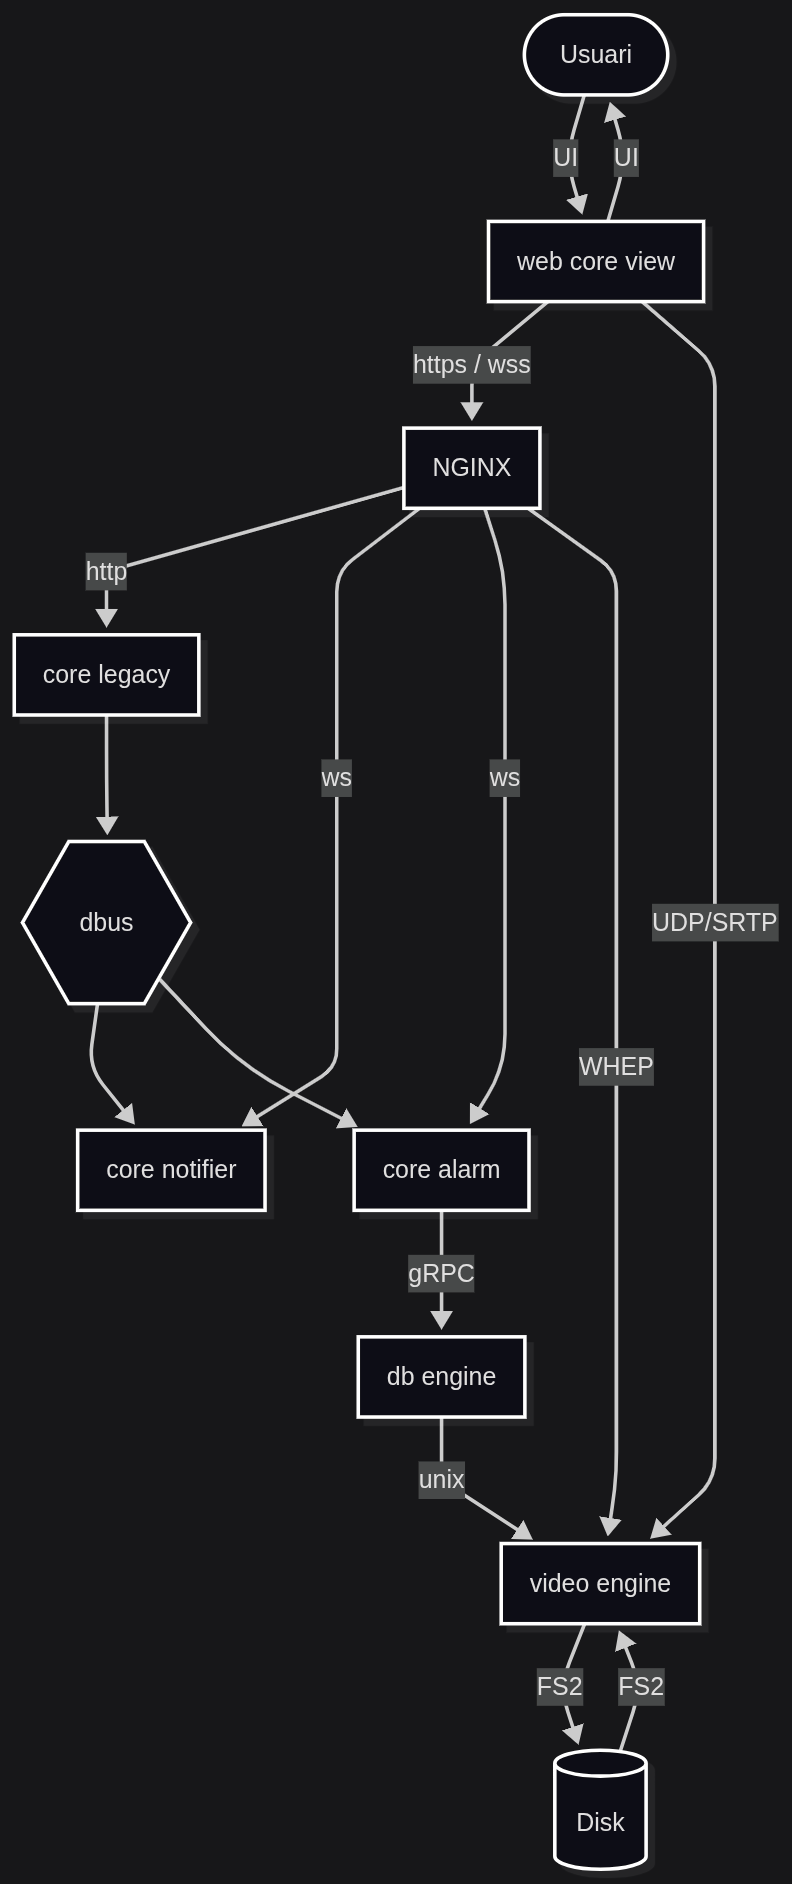
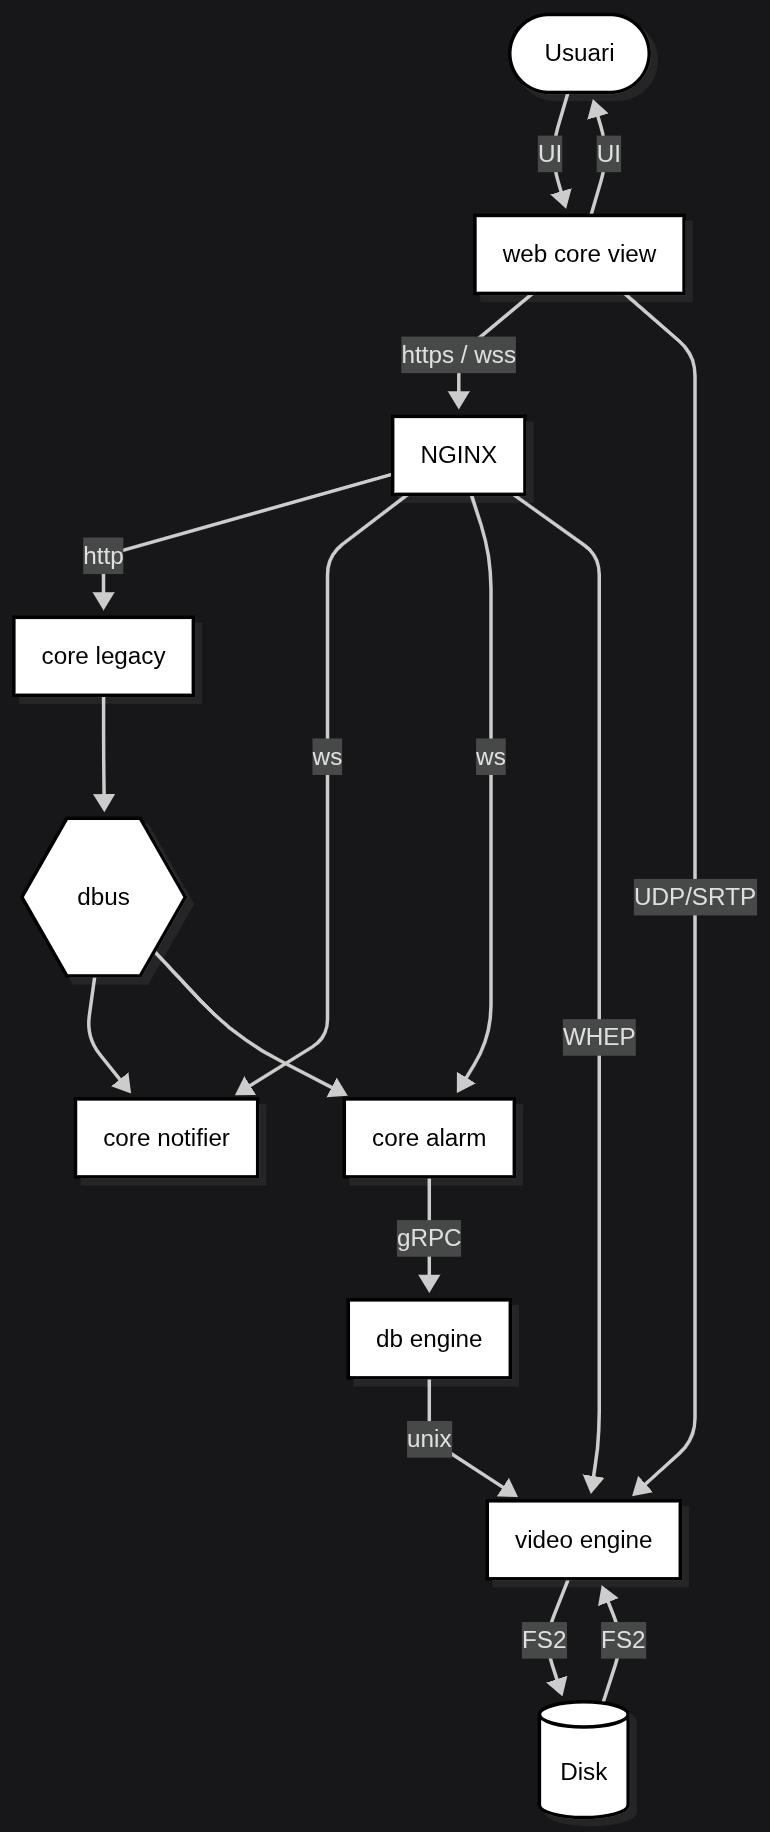
[feat] capitol 4 fins 4.2

diff --git a/capitols/4_arquitectura.tex b/capitols/4_arquitectura.tex
@@ -8,20 +8,21 @@ L'arquitectura de \textit{Web Core View} s'ha dissenyat sota els principis de mo
 L'ecosistema del videogravador (NVR) de Lanaccess es basa en un model de microserveis interns coordinats dins del sistema operatiu del gravador. La plataforma interactua amb els següents serveis crítics executant-se en l'entorn \textit{embedded}:
 
 \begin{itemize}
-    \item \textbf{la-core-legacy:} El cervell central, gestor de la configuració (API REST), autenticació i bloquejos (locks).
-    \item \textbf{la-video-engine:} El motor que processa el vídeo, el guarda als discos i el serveix via HLS o WebRTC. També gestiona les escriptures i lectures a disc de qualsevol informació.
-    \item \textbf{la-db-engine:} Funciona com un \textit{Virtual File System} (VFS) i un \textit{driver} de passarel·la que dirigeix la base de dades lògica. S'encarrega d'ordenar la persistència dels històrics d'alarmes de video, delegant l'escriptura física al disc exclusivament a \textbf{la-video-engine}.
-    \item \textbf{la-core-notifier} i \textbf{la-core-alarm:} Les passarel·les de WebSockets que disparen les notificacions en temps real cap al frontend.
+    \item \textbf{la-core-legacy:} El nucli central del sistema. Gestiona la configuració del gravador (API REST), l'autenticació i autorització d'usuaris, els bloquejos de recursos (\textit{locks}) i la coordinació del cicle de vida de la resta de serveis.
+    \item \textbf{la-video-engine:} El motor de vídeo. Processa els fluxos de les càmeres IP, els grava als discos i els redistribueix cap a \textbf{MediaMTX} per a la seva servei en temps real. És l'únic servei del sistema amb privilegis d'escriptura a disc, centralitzant i controlant totes les operacions d'E/S.
+    \item \textbf{la-db-engine:} Passarel·la de persistència lògica. Implementa un \textit{Virtual File System} (VFS) personalitzat de SQLite que, en lloc d'operar sobre fitxers físics, redirigeix totes les lectures i escriptures a través de \textit{sockets} Unix cap a \textbf{la-video-engine}. Exposa una interfície \textbf{gRPC} als seus clients i no té permisos directes sobre el disc.
+    \item \textbf{la-core-notifier:} Passarel·la de WebSockets per a notificacions generals del sistema. Es subscriu al bus \textbf{D-Bus} per detectar esdeveniments de maquinari —com pèrdues de senyal de vídeo o canvis d'estat de càmera— i els retransmet immediatament al \textit{frontend} via WSS.
+    \item \textbf{la-core-alarm:} Passarel·la de WebSockets especialitzada en alarmes. Es comunica amb \textbf{la-db-engine} via \textbf{gRPC} per persistir els registres d'events, i escolta el \textbf{D-Bus} per detectar activacions de sensors i relés, transmetent-les en temps real al client.
+    \item \textbf{MediaMTX:} Servidor de mitjana de codi obert que actua com a motor de \textit{streaming} de vídeo en temps real. Rep els fluxos de les càmeres des de \textbf{la-video-engine} i els redistribueix als clients via dos protocols diferenciats: \textbf{WebRTC} (transport SRTP/UDP negociat per ICE), i \textbf{HLS} (\textit{HTTP Live Streaming}).
 \end{itemize}
 
-Aquests serveis es relacionen entre ells mitjançant diferents protocols i busos de comunicació per garantir un rendiment òptim. Tal com s'il·lustra en el diagrama de la Figura \ref{fig:arquitectura_serveis}, el \textit{frontend} (\textit{web core view}) interactua amb el backend principalment per dues vies: peticions HTTPS cap a \textbf{la-core-legacy} per a l'enviament i consulta d'estats de configuració, i connexions persistents de WebSockets segurs (\textit{wss}) cap a \textbf{la-core-notifier} i \textbf{la-core-alarm} per rebre notificacions en temps real.
+Aquests serveis es relacionen entre ells mitjançant diferents protocols i busos de comunicació per garantir un rendiment òptim. Tal com s'il·lustra en el diagrama de la Figura \ref{fig:arquitectura_serveis}, el \textit{frontend} (\textit{web core view}) interactua amb el backend principalment per dues vies: peticions HTTPS cap a \textbf{la-core-legacy}, i connexions de WebSockets segurs (\textit{wss}) cap a \textbf{la-core-notifier} i \textbf{la-core-alarm} per rebre notificacions en temps real.
 
-% TODO: revisar això "peticions HTTPS cap a \textbf{la-core-legacy} per a l'enviament i consulta d'estats de configuració"
+Internament, els microserveis intercanvien informació majoritàriament a través del \textbf{D-Bus} de Linux. Per exemple, quan hi ha un canvi d'estat a nivell de maquinari (com una alarma), es publica al \textit{D-Bus}. Els serveis \textbf{la-core-notifier} i \textbf{la-core-alarm} estan subscrits a aquest bus i, en rebre el senyal, transmeten l'esdeveniment via WebSockets al \textit{frontend}. D'altra banda, \textbf{la-core-alarm} utilitza crides \textbf{gRPC} per comunicar-se de manera ràpida i eficient amb \textbf{la-db-engine}.
 
-Internament, els microserveis intercanvien informació majoritàriament a través del \textbf{D-Bus} de Linux. Per exemple, quan hi ha un canvi d'estat a nivell de maquinari (com una alarma), es publica al \textit{D-Bus}. Els serveis \textbf{la-core-notifier} i \textbf{la-core-alarm} estan subscrits a aquest bus i, en rebre el senyal, transmeten l'esdeveniment via WebSockets al \textit{frontend}. D'altra banda, \textbf{la-core-alarm} utilitza crides des \textbf{gRPC} per comunicar-se de manera ràpida i eficient amb \textbf{la-db-engine}, el qual actua com un \textit{driver} o VFS per a la base de dades \textbf{SQLite3}. Com a orquestrador, \textbf{la-db-engine} no guarda la informació directament al disc, sinó que es comunica via \textit{sockets} de Unix amb \textbf{la-video-engine} —l'únic servei amb permisos i funcions per escriure a disc— perquè persisteixi físicament la informació de forma segura.
+\textbf{la-db-engine} intercepta la lectura i escriptura d'alarmes a disc implementant un \textit{Virtual File System} (VFS) personalitzat de SQLite: en lloc de realitzar les operacions d'E/S sobre fitxers físics, redirigeix totes les escriptures i lectures de SQLite a través de \textit{sockets} Unix cap a \textbf{la-video-engine}. D'aquesta manera, \textbf{la-db-engine} presenta una base de dades lògica als seus clients (via gRPC), però no té permisos ni responsabilitat sobre el disc. \textbf{la-video-engine} és l'únic servei amb privilegis per escriure a disc, cosa que centralitza i controla totes les operacions d'E/S del sistema.
 
-% TODO: dir que els serveis son de system-d
-% TODO: revisar si esta ben explicat lo de driver/VFS del la-db-engine
+Cal destacar que tots aquests microserveis —\textbf{la-core-legacy}, \textbf{la-video-engine}, \textbf{la-db-engine}, \textbf{la-core-notifier} i \textbf{la-core-alarm}— estan definits i gestionats com a \textbf{unitats de \textit{systemd}} al sistema operatiu del gravador. Cadascun d'ells disposa del seu propi fitxer \texttt{.service}, que defineix les dependències d'arrencada, les polítiques de reinici automàtic i els límits de recursos. Això significa que l'operador pot gestionar el cicle de vida de qualsevol servei de forma independent amb \texttt{systemctl} (per exemple, \texttt{systemctl restart la-db-engine}), i que \textit{systemd} s'encarrega de garantir que els serveis s'arrenquen en l'ordre correcte i es recuperen automàticament en cas de fallada.
 
 \begin{figure}[htbp]
   \centering
@@ -31,24 +32,22 @@ Internament, els microserveis intercanvien informació majoritàriament a travé
   \small Font: Elaboració pròpia.
 \end{figure}
 
+\clearpage
 \subsection{Capa de comunicació i Proxy}
-Pel que fa a la xarxa externa, la interacció entre la interfície i el maquinari es consolida a través d'un \textit{Gateway} o Proxy Invers:
+
+Per comunicar la web amb els serveis de manera segura, s'interposa \textbf{NGINX} com a \textit{proxy} invers i porta d'entrada única (\textit{gateway}) al sistema. NGINX escolta als ports \texttt{60080} (HTTP) i \texttt{60443} (HTTPS/SSL), i assumeix quatre responsabilitats principals: gestiona el xifratge TLS (protocols TLSv1.2 i TLSv1.3, xifrat \texttt{EECDH+AESGCM}), aplica capçaleres de seguretat HTTP (\texttt{Strict-Transport-Security}, \texttt{X-Frame-Options: SAMEORIGIN}, \texttt{X-Content-Type-Options: nosniff}), controla l'autenticació de les rutes protegides mitjançant el mecanisme intern \texttt{auth\_request}, i enruta cada petició cap al microservei intern corresponent en funció de la ruta URL. Des del punt de vista del navegador, tots els serveis queden amagats darrere una única adreça.
+
+La configuració NGINX agrupa les rutes en quatre blocs funcionals:
 
 \begin{itemize}
-    \item \textbf{Proxy Invers (NGINX):} Actua com a porta d'enllaç única. La seva funció és gestionar el xifratge TLS, resoldre les polítiques de \textit{Cross-Origin Resource Sharing} (CORS) i redirigir les peticions cap als serveis interns corresponents.
-    \item \textbf{API REST (HTTP):} S'utilitza per a operacions \textit{stateless} i síncrones via mòdul \textbf{la-core-legacy}. Gestiona la consulta i l'enviament de paràmetres de configuració.
-    \item \textbf{Canal de Temps Real (WebSockets):} Mitjançant el protocol WSS, els mòduls \textbf{la-core-notifier} i \textbf{la-core-alarm} envien esdeveniments asíncronament. Això permet que la interfície reaccioni instantàniament a una pèrdua de vídeo o a una activació de sensor sense necessitat de fer \textit{polling} constant.
+    \item \textbf{Configuració i control (HTTPS):} La gran majoria de les rutes —\texttt{/api.rest/}, \texttt{/webprotocol/}, \texttt{/onvif/}, \texttt{/device-service/} i els nombrosos \textit{endpoints} \texttt{.cgi}— es deriven cap a \textbf{la-core-legacy} (port intern \texttt{60088}). Aquest servei centralitza la gestió de la configuració, l'autenticació i el control del sistema.
+
+    \item \textbf{Canals de temps real (WSS):} Les connexions WebSocket persistents segueixen dues rutes diferenciades: \texttt{/ws/la-core-notifier/} es deriven cap al port \texttt{60070} (\textbf{la-core-notifier}), i \texttt{/ws/la-core-alarm/} cap al port \texttt{60071} (\textbf{la-core-alarm}). Ambdós serveis envien esdeveniments en temps real al \textit{frontend} —pèrdues de vídeo, activació de relés, alarmes de sensor— sense que el client hagi de fer \textit{polling}.
+
+    \item \textbf{Vídeo en temps real:} S'ofereixen dos mecanismes de \textit{streaming} gestionats per \textbf{MediaMTX}: el camí \texttt{/stream/} (port \texttt{60889}) serveix vídeo via WebRTC, amb senyalització sobre WebSocket i transport de mitjana SRTP/UDP negociat per ICE; el camí \texttt{/hls/} (port \texttt{60888}) serveix el mateix vídeo en format HLS per a clients que no suporten o tenen dificultats amb WebRTC. 
+
+    \item \textbf{Serveis auxiliars:} El camí \texttt{/video-engine/} enruta directament cap a \textbf{la-video-engine} (port \texttt{60890}) per a operacions de control i consulta del motor de vídeo. El camí \texttt{/db-engine/} connecta amb \textbf{la-db-engine} (port \texttt{60891}) per a consultes de dades històriques. El camí \texttt{/terminal/} connecta amb el servei \textbf{ttyd} (port \texttt{7681}), que ofereix una terminal interactiva accessible directament des del navegador.
 \end{itemize}
-
-Internament, els serveis del backend embedded es comuniquen mitjançant \textbf{gRPC} \cite{grpc_up_running} per a una transferència de dades binària d'alt rendiment i utilitzen un bus de missatgeria \textbf{D-Bus} per a la coordinació d'estats a nivell de sistema operatiu. El repte de disseny rau en el fet que el navegador no pot comunicar-se directament amb els dimonis del backend (que utilitzen gRPC o D-Bus). S'ha implementat una capa de \textbf{Gateway} amb \textbf{NGINX} com a \textit{Proxy} invers, que redirigeix el trànsit segons la ruta:
-
-\begin{itemize}
-    \item Les peticions \texttt{/api/v1/config/*} es deriven a \textbf{la-core-legacy}.
-    \item Les peticions de senyalització WebRTC (protocol WHEP, camí \texttt{/video-engine/stream/\{id\}/whep}) es deriven a través de NGINX cap a \textbf{la-video-engine} (pla de control). Un cop establerta la sessió, el flux de vídeo SRTP/UDP circula directament entre el navegador i el port de \textbf{la-video-engine} negociat per ICE (ports 10000–20000), sense intermediació de NGINX (pla de dades).
-    \item Les consultes de dades històriques es canalitzen cap a \textbf{la-db-engine}.
-\end{itemize}
-
-Aquest desacoblament permet que, si en un futur es canvia el motor de base de dades o el motor de vídeo, el \textit{frontend} només hagi de canviar el \textit{contracte} de dades, no la seva arquitectura base.
 
 Per tal de sintetitzar la interacció entre els components, a la Taula \ref{tab:matriu_comunicacio} es detallen els protocols i la naturalesa del trànsit entre el navegador i el gravador:
 
@@ -57,88 +56,123 @@ Per tal de sintetitzar la interacció entre els components, a la Taula \ref{tab:
   \caption{Matriu de comunicació de la plataforma.}
   \label{tab:matriu_comunicacio}
   \resizebox{\textwidth}{!}{
-  \begin{tabular}{@{}llll@{}}
+  \begin{tabular}{@{}lllll@{}}
     \toprule
-    \textbf{Origen} & \textbf{Destinació} & \textbf{Protocol} & \textbf{Finalitat} \\ \midrule
-    Frontend (Navegador) & NGINX & HTTPS & Peticions REST i descàrrega de l'App \\
-    Frontend (Navegador) & NGINX & WSS & Notificacions d'alarmes en temps real \\
-    Frontend (Navegador) & NGINX & HTTPS (WHEP) & Senyalització SDP per a WebRTC (pla de control) \\
-    Frontend (Navegador) & \textbf{la-video-engine} & SRTP/UDP (directe) & Flux de vídeo WebRTC (pla de dades) \\
-    NGINX (Proxy) & \textbf{la-core-legacy} & HTTP (Intern) & Gestió de configuració i usuaris \\
-    NGINX (Proxy) & \textbf{la-db-engine} & HTTP (Intern) & Consultes a la base de dades SQLite \\
-    \textbf{la-video-engine} / \textbf{la-core-alarm} & \textbf{la-db-engine} & D-Bus / Unix Sockets & Comunicació interna del backend (alarmes i persistència al disc) \\ \bottomrule
+    \textbf{Origen} & \textbf{Destinació (Servei)} & \textbf{Ruta NGINX} & \textbf{Protocol} & \textbf{Finalitat} \\ \midrule
+    Navegador & NGINX $\rightarrow$ \textbf{la-core-legacy} & \texttt{/login/}, \texttt{/(en|es|fr)/} & HTTPS & Descàrrega de l'aplicació Angular (SPA) \\
+    Navegador & NGINX $\rightarrow$ \textbf{la-core-legacy} & \texttt{/api.rest/}, \texttt{/webprotocol/}, \texttt{*.cgi} & HTTPS & Configuració, autenticació i control del sistema \\
+    Navegador & NGINX $\rightarrow$ \textbf{la-core-notifier} & \texttt{/ws/la-core-notifier/} & WSS & Notificacions de sistema en temps real \\
+    Navegador & NGINX $\rightarrow$ \textbf{la-core-alarm} & \texttt{/ws/la-core-alarm/} & WSS & Notificacions d'alarmes en temps real \\
+    Navegador & NGINX $\rightarrow$ \textbf{MediaMTX} & \texttt{/stream/} & WSS + SRTP/UDP & Vídeo en directe via WebRTC \\
+    Navegador & NGINX $\rightarrow$ \textbf{MediaMTX} & \texttt{/hls/} & HTTPS & Vídeo en directe via HLS \\
+    Navegador & NGINX $\rightarrow$ \textbf{la-video-engine} & \texttt{/video-engine/} & HTTPS & Control i consulta del motor de vídeo \\
+    Navegador & NGINX $\rightarrow$ \textbf{la-db-engine} & \texttt{/db-engine/} & HTTPS & Consultes de dades històriques \\
+    Navegador & NGINX $\rightarrow$ \textbf{ttyd} & \texttt{/terminal/} & WSS & Terminal interactiva via navegador \\
+    % \textbf{la-core-notifier} / \textbf{la-core-alarm} & \textbf{la-db-engine} & — & gRPC / D-Bus & Comunicació interna del backend \\
+    % \textbf{la-video-engine} & \textbf{la-db-engine} & — & Unix Sockets & Persistència al disc (VFS SQLite) \\ \bottomrule
   \end{tabular}
   }
 \end{table}
 
-Per resoldre aquest desacoblament a l'hora d'enviar esdeveniments, s'ha dissenyat un mecanisme de \textbf{bridging de protocols (Protocol Bridging)} centralitzat en el servei de notificacions (\textit{Core Notifier}) del gravador. Aquest servei actua com a intermediari actiu (\textit{gateway}): es subscriu als esdeveniments de sistema (com pèrdues de vídeo o activació de relés) mitjançant el bus D-Bus i canals gRPC, tradueix aquestes estructures de baix nivell en missatges JSON lleugers i, finalment, els transmet en temps real pel canal de \textbf{WebSockets} (WSS) \cite{rfc6455} fins al client Angular. Aquest disseny garanteix que el frontend pugui respondre immediatament a qualsevol esdeveniment de seguretat, sense connexions binàries natives costoses ni sobrecàrrega de la CPU del client.
+\clearpage
+El Llistat \ref{lst:nginx_routing} mostra els blocs de configuració NGINX que implementen les rutes principals de la plataforma, extrets directament del fitxer \texttt{la-core.conf} del repositori de build \textbf{mantos-rec} (\texttt{sources/meta-mantos/recipes-httpd/nginx/nginx/la-core.conf}):
 
-\subsection{Seguretat Defensiva contra vectors d'atac OWASP}
-Com a requisit no funcional de seguretat crítica, el frontend s'ha dissenyat per mitigar de forma activa les principals vulnerabilitats del catàleg OWASP Top 10. La gestió de la sessió s'ha dissenyat per eliminar tots els vectors de robatori de credencials: les \textit{cookies} de sessió es gestionen amb els atributs \texttt{HttpOnly} i \texttt{Secure} configurats exclusivament a la capa de NGINX, de manera que resten completament inaccessibles des de qualsevol codi JavaScript del client i, per tant, immunitzades contra atacs de tipus \textit{Cross-Site Scripting} (XSS). La prevenció de \textit{Cross-Site Request Forgery} (CSRF) s'aconsegueix gràcies a la política \textit{Same-Origin} imposada per NGINX i a la naturalesa \textit{zero-persistence} del Signal privat d'estat en memòria del \textit{frontend}: un recarregament de pàgina invalida la sessió al costat del client sense necessitat de cap \textit{token} CSRF addicional.
+\begin{lstlisting}[language=bash, label={lst:nginx_routing}, caption={Fragment de la configuració NGINX (la-core.conf, repositori mantos-rec): rutes principals de la plataforma.}]
+# Aplicacio Angular (SPA) - requereix autenticacio
+location ~ ^/(en|es|fr)/ {
+    auth_request /auth.cgi;
+    error_page 401 = @error401;
+    alias /data/web-core-view/var/www/browser/;
+    try_files $uri $uri/ /login/index.html;
+}
 
-Addicionalment, a la capa de NGINX, s'ha unificat l'origen de l'aplicació i l'API REST sota un mateix servidor de recursos, cosa que permet aplicar polítiques de Same-Origin estrictes i capçaleres de seguretat Content Security Policy (CSP) per immunitzar el sistema contra injeccions Cross-Site Scripting (XSS) i intents de Clickjacking.
+# WebSocket - Notificacions generals del sistema
+location /ws/la-core-notifier/ {
+    proxy_pass http://localhost:60070/;
+    proxy_http_version 1.1;
+    proxy_set_header Upgrade $http_upgrade;
+    proxy_set_header Connection "upgrade";
+    proxy_send_timeout 600s;
+    proxy_read_timeout 600s;
+}
 
-L'ús de NGINX com a \textit{entry point} és indispensable per a la seguretat del sistema. En centralitzar les peticions, NGINX actua de tallafoc per als serveis \textbf{la-video-engine} i \textbf{la-core-legacy}, impedint l'accés directe als ports interns. A més, permet que el token JWT generat per l'autenticació sigui vàlid per a tots els microserveis sota un mateix domini de seguretat, simplificant la gestió de capçaleres \textit{Authorization} i evitant problemes de CORS (Cross-Origin Resource Sharing) que podrien bloquejar l'streaming de vídeo.
+# WebSocket - Canal d'alarmes
+location /ws/la-core-alarm/ {
+    proxy_pass http://localhost:60071/;
+    proxy_http_version 1.1;
+    proxy_set_header Upgrade $http_upgrade;
+    proxy_set_header Connection "upgrade";
+    proxy_send_timeout 600s;
+    proxy_read_timeout 600s;
+}
 
-\begin{lstlisting}[language=bash, caption={Configuració de seguretat NGINX per a l'entorn embedded de Web Core View.}]
-# Configuració de seguretat NGINX per a l'entorn embedded de Web Core View
-server {
-    listen 443 ssl http2;
-    server_name localhost;
+# Motor de video - control i consulta (protegit per auth)
+location /video-engine/ {
+    auth_request /auth.cgi;
+    error_page 401 = @error401;
+    proxy_http_version 1.1;
+    proxy_pass http://localhost:60890/;
+}
 
-    # Certificats SSL i xifratge TLS fort
-    ssl_certificate /etc/nginx/ssl/server.crt;
-    ssl_certificate_key /etc/nginx/ssl/server.key;
-    ssl_protocols TLSv1.2 TLSv1.3;
+# Base de dades - dades historiques (protegit per auth)
+location /db-engine/ {
+    auth_request /auth.cgi;
+    error_page 401 = @error401;
+    proxy_http_version 1.1;
+    proxy_pass http://localhost:60891/;
+}
 
-    # Capçaleres de seguretat defensiva (OWASP Mitigation)
-    add_header Content-Security-Policy "default-src 'self'; script-src 'self'; style-src 'self' 'unsafe-inline'; img-src 'self' data:; connect-src 'self' wss:;" always;
-    add_header X-Frame-Options "DENY" always;
-    add_header X-Content-Type-Options "nosniff" always;
-    add_header Referrer-Policy "strict-origin-when-cross-origin" always;
-
-    # Enrutament de l'aplicació SPA Angular (Frontend)
-    location / {
-        root /var/www/web-core-view;
-        try_files $uri $uri/ /index.html;
-    }
-
-    # Proxy Invers cap a la-core-legacy (configuració, auth i locks)
-    location /api/v1/config/ {
-        proxy_pass http://127.0.0.1:8081;
-        proxy_set_header Host $host;
-        proxy_set_header X-Real-IP $remote_addr;
-    }
-
-    # Proxy Invers cap a la-video-engine (senyalització WebRTC/WHEP i HLS)
-    location /video-engine/ {
-        proxy_pass http://127.0.0.1:8082;
-        proxy_set_header Host $host;
-    }
-
-    # Proxy Invers cap a la-db-engine (consultes historiques d'alarmes)
-    location /webprotocol/ {
-        proxy_pass http://127.0.0.1:8081;
-        proxy_set_header Host $host;
-    }
-
-    # Proxy Invers i Bridging per a WebSockets d'esdeveniments
-    location /ws/ {
-        proxy_pass http://127.0.0.1:8080;
-        proxy_http_version 1.1;
-        proxy_set_header Upgrade $http_upgrade;
-        proxy_set_header Connection "Upgrade";
-        proxy_set_header Host $host;
-    }
+# Streaming WebRTC via MediaMTX (protegit per auth)
+location /stream/ {
+    auth_request /auth.cgi;
+    error_page 401 = @error401;
+    proxy_pass http://localhost:60889/stream/;
+    proxy_http_version 1.1;
+    proxy_set_header Upgrade $http_upgrade;
+    proxy_set_header Connection "upgrade";
 }
 \end{lstlisting}
 
-\subsection{Estratègia de Fallback i robustesa del canal de vídeo}
-La integració de WebRTC com a mètode de visualització de vídeo de baixa latència ($<300$~ms) requereix un mecanisme d'alta disponibilitat que respongui davant de xarxes corporatives on el trànsit UDP pugui estar completament bloquejat pels tallafocs de seguretat. Per a aquest propòsit, s'ha dissenyat un sistema de \textit{fallback} transparent a HLS \cite{hls_apple}.
+% Per resoldre aquest desacoblament a l'hora d'enviar esdeveniments, s'ha dissenyat un mecanisme de \textbf{bridging de protocols (Protocol Bridging)} centralitzat en el servei de notificacions (\textit{Core Notifier}) del gravador. Aquest servei actua com a intermediari actiu (\textit{gateway}): es subscriu als esdeveniments de sistema (com pèrdues de vídeo o activació de relés) mitjançant el bus D-Bus i canals gRPC, tradueix aquestes estructures de baix nivell en missatges JSON lleugers i, finalment, els transmet en temps real pel canal de \textbf{WebSockets} (WSS) \cite{rfc6455} fins al client Angular. Aquest disseny garanteix que el frontend pugui respondre immediatament a qualsevol esdeveniment de seguretat, sense connexions binàries natives costoses ni sobrecàrrega de la CPU del client.
 
-La connexió WebRTC es divideix en dos plans de comunicació independents. El \textbf{pla de control} gestiona la senyalització SDP seguint el protocol WHEP (\textit{WebRTC-HTTP Egress Protocol}) \cite{webrtc_w3c}: el navegador realitza un HTTP POST a \texttt{/video-engine/stream/\{camera\_id\}/whep}, que NGINX reenvia internament cap a \textbf{la-video-engine}, el qual retorna la descripció de sessió SDP amb les candidatures ICE. El \textbf{pla de dades}, en canvi, és un flux SRTP xifrat sobre UDP que circula directament entre el navegador i el port de \textbf{la-video-engine} acordat per ICE (rang 10000–20000); aquest trànsit no passa mai per NGINX. Aquesta separació és allò que garanteix una latència de visualització inferior a 300~ms: el vídeo no ha de travessar cap capa de proxy invers.
+\clearpage
+\subsection{Seguretat Defensiva contra vectors d'atac OWASP}
+Com a requisit no funcional de seguretat crítica, el frontend s'ha dissenyat per mitigar de forma activa les principals vulnerabilitats del catàleg OWASP Top 10. La gestió de la sessió s'ha dissenyat per eliminar tots els vectors de robatori de credencials: les \textit{cookies} de sessió es gestionen amb els atributs \texttt{HttpOnly} i \texttt{Secure} configurats exclusivament a la capa de NGINX, de manera que resten completament inaccessibles des de qualsevol codi JavaScript del client i, per tant, immunitzades contra atacs de tipus \textit{Cross-Site Scripting} (XSS). La prevenció de \textit{Cross-Site Request Forgery} (CSRF) s'aconsegueix gràcies a la política \textit{Same-Origin} imposada per NGINX i a la naturalesa \textit{zero-persistence} del Signal privat d'estat en memòria del \textit{frontend}: un recarregament de pàgina invalida la sessió al costat del client sense necessitat de cap \textit{token} CSRF addicional.
 
-El client web inicia la negociació SDP mitjançant la referència del protocol WebRTC W3C \cite{webrtc_w3c}. Si el navegador detecta que l'estat de la connexió ICE (\textit{Interactive Connectivity Establishment}) transita cap a \texttt{failed} o \texttt{disconnected} després d'un \textit{timeout} de seguretat de 5 segons, s'activa automàticament la lògica de degradació de servei. En aquest instant, es tanquen de manera neta els descriptors de WebRTC i s'inicialitza la reproducció d'un flux de vídeo HLS a través del Proxy Invers NGINX (TCP, port 443 xifrat), assegurant que l'operador continuï visualitzant la càmera sense interrupció.
+Addicionalment, a la capa de NGINX, s'ha unificat l'origen de l'aplicació i l'API REST sota un mateix servidor de recursos, cosa que permet aplicar polítiques de \textit{Same-Origin} estrictes que limiten els vectors d'injeccions \textit{Cross-Site Scripting} (XSS) i els intents de \textit{Clickjacking}.
+
+L'ús de NGINX com a \textit{entry point} és indispensable per a la seguretat del sistema. En centralitzar les peticions, NGINX actua de tallafoc per als serveis \textbf{la-video-engine} i \textbf{la-core-legacy}, impedint l'accés directe als ports interns. A més, permet que el token JWT generat per l'autenticació sigui vàlid per a tots els microserveis sota un mateix domini de seguretat, simplificant la gestió de capçaleres \textit{Authorization} i evitant problemes de CORS (Cross-Origin Resource Sharing) que podrien bloquejar l'streaming de vídeo.
+
+\begin{lstlisting}[language=bash, label={lst:nginx_security}, caption={Fragment de la configuració NGINX (la-core.conf): TLS i capçaleres de seguretat HTTP.}]
+server {
+    listen 60080;
+    listen 60443 ssl;
+
+    # Certificats TLS del dispositiu
+    ssl_certificate     /etc/ssl/certs/la-certificate.crt;
+    ssl_certificate_key /etc/ssl/private/la-certificate.key;
+
+    # Protocols i xifrats forts (OWASP TLS Cheat Sheet)
+    ssl_protocols             TLSv1.2 TLSv1.3;
+    ssl_prefer_server_ciphers on;
+    ssl_dhparam               /etc/nginx/la-dhparam.pem;
+    ssl_ciphers               EECDH+AESGCM:EDH+AESGCM;
+    ssl_ecdh_curve            secp384r1;
+    ssl_session_timeout       10m;
+    ssl_session_cache         shared:SSL:10m;
+    ssl_session_tickets       off;
+    ssl_stapling              on;
+    ssl_stapling_verify       on;
+
+    # Capçaleres de seguretat HTTP
+    add_header Strict-Transport-Security
+               "max-age=31536000; includeSubDomains" always;
+    add_header X-Frame-Options        "SAMEORIGIN" always;
+    add_header X-Content-Type-Options "nosniff"    always;
+    add_header Referrer-Policy
+               "strict-origin-when-cross-origin"   always;
+}
+\end{lstlisting}
 
 \section{Disseny del Frontend (Angular 19)}
 L'elecció d'Angular 19 no és casual; el \textit{framework} proporciona una estructura que facilita el manteniment a llarg termini de l'aplicació.

diff --git a/capitols/5_implementacio.tex b/capitols/5_implementacio.tex
@@ -6,6 +6,30 @@ En aquest capítol es detalla el procés de construcció del sistema \textit{Web
 \section{Entorn de desenvolupament i tecnologies}
 Per a la implementació del \textit{frontend}, s'ha configurat un entorn basat en \textbf{Node.js} i l'ecosistema \textbf{Angular CLI 19}. L'estructura del projecte s'ha dissenyat basant-se en components completament independents (\textit{Standalone Components}), una decisió que permet simplificar notablement el codi, optimitzar el procés de \textit{tree-shaking} i assegurar que l'aplicació web carregui molt més ràpidament al navegador mitjançant la descàrrega sota demanda (\textit{lazy loading}).
 
+\subsection{Sistema de Build Embedded: Mantos-rec i Yocto}
+
+El \textit{frontend} \textit{Web Core View} no existeix de manera aïllada: s'integra com un component més d'un \textit{firmware} complet per a un dispositiu \textit{embedded}. El repositori \textbf{mantos-rec} centralitza la construcció de tot el sistema operatiu del gravador NVR, basat en el projecte \textbf{Yocto} —el \textit{framework} estàndard de la indústria per a la creació de distribucions Linux personalitzades per a maquinari específic.
+
+L'entorn Yocto de mantos-rec s'organitza en diverses capes (\textit{layers}). El directori \texttt{sources/} conté tant capes de la comunitat (\texttt{poky}, \texttt{meta-qt6}, etc.) com les específiques del fabricant del processador: \texttt{meta-imx} i \texttt{meta-freescale}, que revelen la plataforma de maquinari subjacent. El gravador corre sobre un processador \textbf{NXP i.MX}, una família de SoC (\textit{System on Chip}) ARM àmpliament usada en dispositius de seguretat i videovigilància \textit{embedded}. A banda d'aquestes, el directori \texttt{sources/meta-mantos} és la capa pròpia del projecte i s'estructura en subcarpetes per dominis funcionals:
+
+\begin{itemize}
+    \item \texttt{recipes-la/}: Conté les receptes de tots els serveis propietaris de Lanaccess: \textbf{la-core-legacy}, \textbf{la-video-engine}, \textbf{la-db-engine}, \textbf{la-core-notifier}, \textbf{la-core-alarm}, \textbf{la-launcher} i el propi \textbf{la-web-core-view}.
+    \item \texttt{recipes-httpd/}: Empaqueta la configuració de \textbf{NGINX} (el fitxer \texttt{la-core.conf}) directament a la imatge del sistema.
+    \item \texttt{recipes-kernel/}: Conté els \textit{patches} aplicats al kernel de Linux per a les necessitats específiques del maquinari de l'NVR.
+    \item \texttt{recipes-bsp/}: El \textit{Board Support Package}: configuració del gestor d'arrencada \textbf{U-Boot} i els \textit{device tree blobs} (DTB) que descriuen el maquinari al kernel a baix nivell.
+    \item \texttt{recipes-images/}: Defineix la imatge final del sistema (ex: \texttt{packagegroup-mantos-full.bb}), determinant quins paquets s'inclouen al \textit{rootfs} de producció en el fitxer \texttt{.wic}.
+\end{itemize}
+
+\subsubsection{La recepta la-web-core-view i el mecanisme de desplegament en dues fases}
+
+La integració del \textit{frontend} Angular al \textit{firmware} es gestiona mitjançant la recepta \texttt{la-web-core-view\_git.bb}, ubicada a \texttt{sources/meta-mantos/recipes-la/la-web-core-view/}. El seu cicle de vida s'articula en dues fases clarament diferenciades.
+
+\textbf{Fase de \textit{build} (en temps de compilació Yocto):} La recepta clona el repositori del projecte des del GitLab intern de Lanaccess, declara \texttt{nodejs-native} com a dependència de construcció i executa les tasques \texttt{do\_configure} i \texttt{do\_compile}, que equivalen a executar \texttt{npm install} i \texttt{npm run build}. El resultat compilat (\texttt{dist/web-core-view}) no s'instal·la directament al sistema de fitxers del dispositiu: la recepta el comprimeix en un arxiu \texttt{webfiles.tar} que desa a \texttt{/apps/la-web-core-view/var/}, acompanyat d'un fitxer \texttt{webfiles.version} per al control de versions en calent.
+
+\textbf{Fase de desplegament (en temps d'arrencada del NVR):} Gestionada per l'script \texttt{la-web-core-view-deployment.sh}, inclòs al paquet \texttt{la-launcher}. En cada arrencada, l'script compara la versió del \texttt{webfiles.tar} empaquetat amb la que hi ha a \texttt{/data/web-core-view/var/www/.version}. Si hi ha discrepància —o si és la primera arrencada del dispositiu— descomprimeix el \texttt{webfiles.tar} a la partició de dades (\texttt{/data/web-core-view/var/www/}). NGINX, configurat amb un \texttt{alias} cap a \texttt{/data/web-core-view/var/www/browser/}, els serveix immediatament.
+
+Aquest disseny té una conseqüència directa en l'agilitat del flux de treball de desenvolupament. La partició \texttt{/data/} és de lectura i escriptura, a diferència de la partició principal del sistema, que és de només lectura i immutable. Durant el desenvolupament actiu, no cal llançar un \textit{build} complet de Yocto —un procés que pot trigar hores— per validar canvis a la UI. N'hi ha prou amb compilar l'Angular localment i sincronitzar el directori \texttt{dist/} amb el NVR via \texttt{rsync} o \texttt{scp} directament a \texttt{/data/web-core-view/var/www/browser/}; una recàrrega del navegador ja mostra els canvis. Només per a les \textit{releases} de producció cal el \textit{build} complet de Yocto, que generarà el \textit{firmware} sencer (fitxer \texttt{.wic}) amb el nou \texttt{webfiles.tar} inclòs. Aquesta separació entre sistema immutable i dades modificables en calent és un patró de disseny habitual en sistemes \textit{embedded} de producció que equilibra la robustesa del sistema operatiu amb l'agilitat del desplegament de contingut.
+
 \section{Disseny de la Capa d'Estils i Consistència Visual}
 Per a la maquetació gràfica de \textit{Web Core View}, s'ha dissenyat una arquitectura d'estils modular basada en \textbf{SCSS} (la sintaxi moderna del preprocessador \textbf{SASS}, \textit{Syntactically Awesome Style Sheets}). El repte de disseny visual residia en la convivència de dos entorns d'ús molt diferents: la consola d'administració tècnica (que requereix claredat i alt contrast amb fons clars sota llum natural) i el mosaic de visualització de vídeo (on els operadors treballen de forma contínua en entorns foscos de centres de control i requereixen fons gairebé negres per evitar la fatiga visual).
 
@@ -79,7 +103,7 @@ El primer punt de contacte de l'usuari amb el sistema és la pantalla d'inici de
   \small Font: Elaboració pròpia.
 \end{figure}
 
-L'API d'autenticació del sistema s'executa com un procés en dues fases coordinat a través del punt d'accés unificat \texttt{/WebLogin}, gestionat pel microservei \textbf{la-core-legacy} i exposat a l'exterior de forma segura mitjançant el proxy invers d'NGINX sota el protocol de transport xifrat HTTPS.
+L'API d'autenticació del sistema s'executa com un procés en dues fases coordinat a través del punt d'accés unificat \texttt{/WebLogin}, gestionat pel microservei \textbf{la-core-legacy} i exposat a l'exterior de forma segura mitjançant el proxy invers de NGINX sota el protocol de transport xifrat HTTPS.
 
 \subsection{Fase 1: Verificació de credencials (PlainLogin)}
 El client envia les credencials introduïdes per l'operador. Tot i que viatgen en text pla dins del JSON, la confidencialitat està garantida pel xifrat de la capa de transport (HTTPS/TLS). S'efectua una petició HTTP POST a \texttt{/WebLogin} enviant el següent payload: